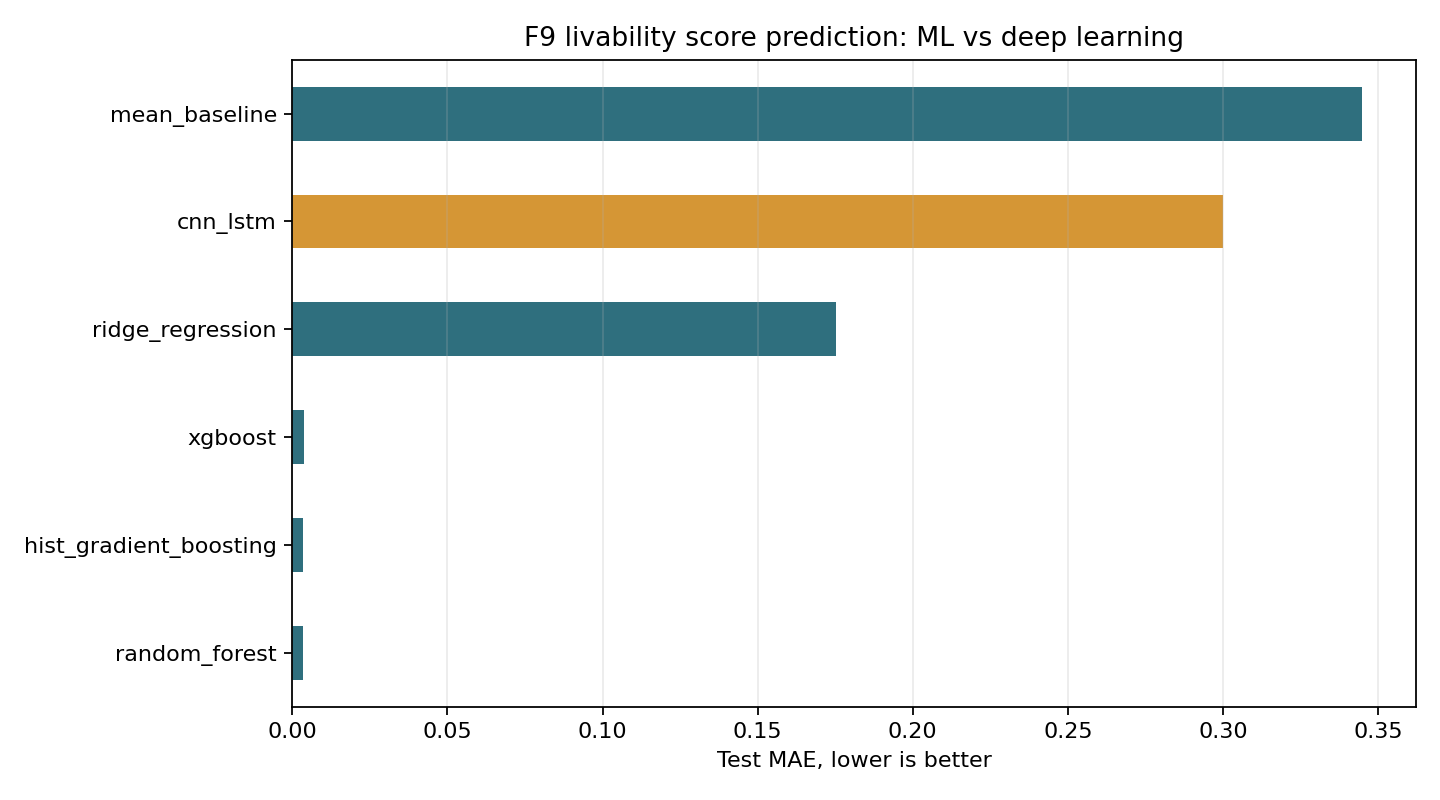
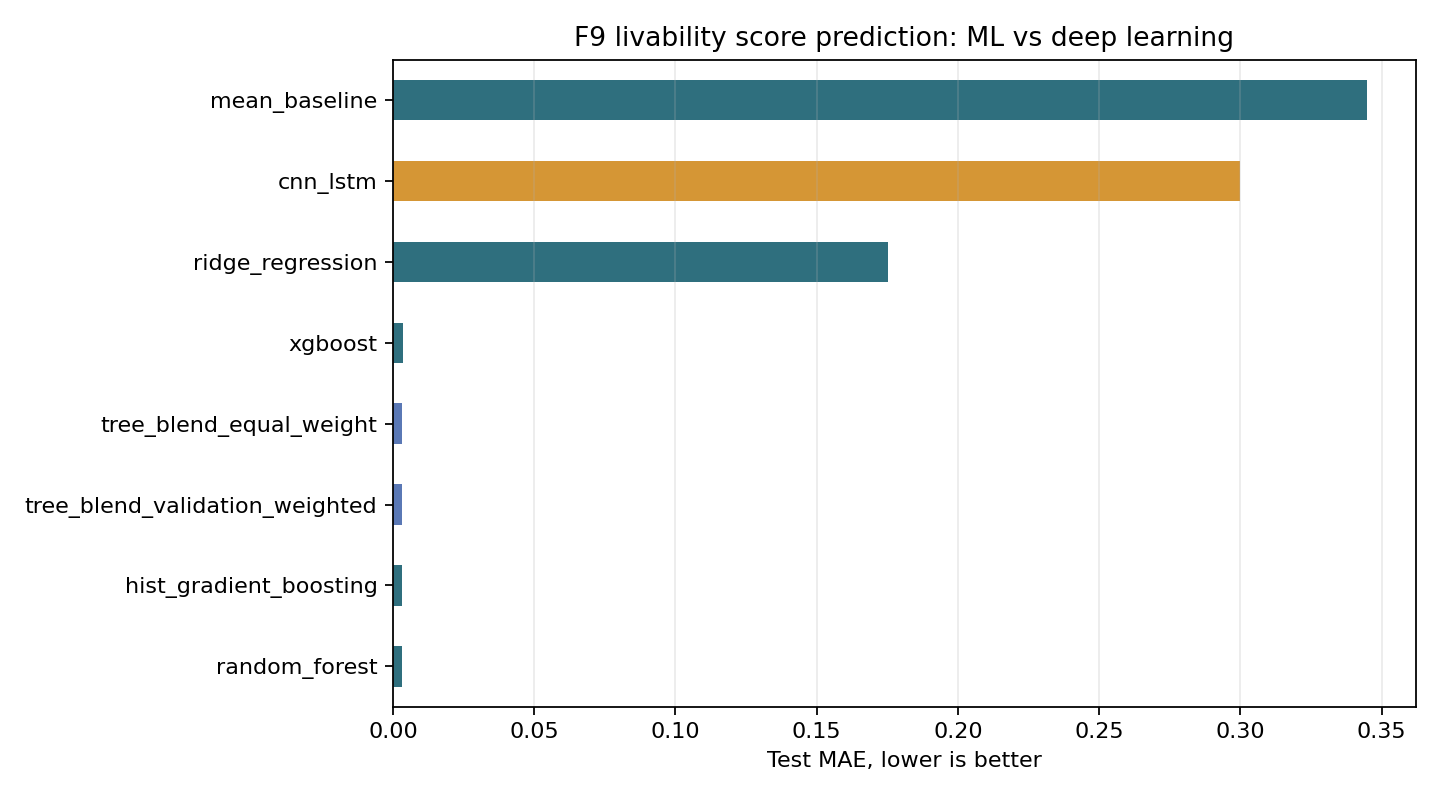
Add F9 ensemble model blends

diff --git a/scripts/f9_uc7_test_livability_models.py b/scripts/f9_uc7_test_livability_models.py
@@ -21,6 +21,7 @@ import matplotlib
 
 matplotlib.use("Agg")
 import matplotlib.pyplot as plt
+import numpy as np
 import pandas as pd
 from sklearn.compose import TransformedTargetRegressor
 from sklearn.dummy import DummyRegressor
@@ -46,6 +47,7 @@ DEFAULT_RESULTS = ROOT / "reports" / "tables" / "f9_uc7_livability_model_results
 DEFAULT_PREDICTIONS = ROOT / "reports" / "tables" / "f9_uc7_livability_test_predictions.csv"
 DEFAULT_FIGURE = ROOT / "reports" / "figures" / "f9_uc7_model_comparison.png"
 DEFAULT_TIMESERIES_FIGURE = ROOT / "reports" / "figures" / "f9_uc7_test_predictions_timeseries.png"
+TREE_ENSEMBLE_MEMBERS = ["random_forest", "hist_gradient_boosting", "xgboost"]
 
 
 def build_xgboost_model(random_state: int) -> Pipeline | None:
@@ -144,10 +146,126 @@ def build_models(random_state: int) -> tuple[dict[str, Pipeline], list[str]]:
     return models, skipped_models
 
 
-def clip_score(predictions):
+def clip_score(predictions) -> pd.Series:
     """Keep livability score predictions inside the known 0..1 target range."""
 
-    return predictions.clip(0.0, 1.0)
+    return pd.Series(predictions).clip(0.0, 1.0)
+
+
+def score_predictions(
+    model_name: str,
+    y_validation: pd.Series,
+    validation_pred: pd.Series,
+    y_test: pd.Series,
+    test_pred: pd.Series,
+    extra: dict | None = None,
+) -> dict:
+    """Create a result row from validation and test predictions."""
+
+    validation_metrics = regression_metrics(y_validation.to_numpy(), validation_pred.to_numpy())
+    test_metrics = regression_metrics(y_test.to_numpy(), test_pred.to_numpy())
+    row = {
+        "model": model_name,
+        "validation_mae": validation_metrics["mae"],
+        "validation_rmse": validation_metrics["rmse"],
+        "validation_r2": validation_metrics["r2"],
+        "test_mae": test_metrics["mae"],
+        "test_rmse": test_metrics["rmse"],
+        "test_r2": test_metrics["r2"],
+    }
+    if extra:
+        row.update(extra)
+    return row
+
+
+def weighted_average_predictions(
+    predictions_by_model: dict[str, dict[str, pd.Series]],
+    model_names: list[str],
+    weights: dict[str, float],
+    prediction_key: str,
+) -> pd.Series:
+    """Blend predictions from several already fitted models."""
+
+    blended = np.zeros(len(predictions_by_model[model_names[0]][prediction_key]), dtype=float)
+    for model_name in model_names:
+        blended += weights[model_name] * predictions_by_model[model_name][prediction_key].to_numpy()
+    return clip_score(blended)
+
+
+def inverse_validation_mae_weights(results: list[dict], model_names: list[str]) -> dict[str, float]:
+    """Weight stronger validation models more heavily."""
+
+    mae_by_model = {
+        result["model"]: result["validation_mae"]
+        for result in results
+        if result["model"] in model_names
+    }
+    inverse_scores = {
+        model_name: 1.0 / max(mae_by_model[model_name], 1e-12)
+        for model_name in model_names
+    }
+    total = sum(inverse_scores.values())
+    return {model_name: inverse_scores[model_name] / total for model_name in model_names}
+
+
+def add_tree_blend_ensembles(
+    results: list[dict],
+    predictions_by_model: dict[str, dict[str, pd.Series]],
+    y_validation: pd.Series,
+    y_test: pd.Series,
+) -> None:
+    """Add prediction-level ensembles made from the strongest tree models."""
+
+    available_members = [
+        model_name
+        for model_name in TREE_ENSEMBLE_MEMBERS
+        if model_name in predictions_by_model
+    ]
+    if len(available_members) < 2:
+        return
+
+    ensemble_specs = {
+        "tree_blend_equal_weight": {
+            model_name: 1.0 / len(available_members)
+            for model_name in available_members
+        },
+        "tree_blend_validation_weighted": inverse_validation_mae_weights(
+            results,
+            available_members,
+        ),
+    }
+
+    for ensemble_name, weights in ensemble_specs.items():
+        validation_pred = weighted_average_predictions(
+            predictions_by_model,
+            available_members,
+            weights,
+            "validation_pred",
+        )
+        test_pred = weighted_average_predictions(
+            predictions_by_model,
+            available_members,
+            weights,
+            "test_pred",
+        )
+        results.append(
+            score_predictions(
+                ensemble_name,
+                y_validation,
+                validation_pred,
+                y_test,
+                test_pred,
+                extra={
+                    "model_family": "prediction_blend_ensemble",
+                    "ensemble_members": available_members,
+                    "ensemble_weights": weights,
+                },
+            )
+        )
+        predictions_by_model[ensemble_name] = {
+            "validation_pred": validation_pred,
+            "test_pred": test_pred,
+        }
 
 
 def save_model_comparison_figure(results: list[dict], path: Path) -> None:
@@ -217,30 +335,23 @@ def main() -> None:
     y_test = test_df[target_column]
 
     results = []
-    fitted_models = {}
+    predictions_by_model = {}
     models, skipped_models = build_models(args.random_state)
     for model_name, model in models.items():
         model.fit(x_train, y_train)
-        validation_pred = clip_score(pd.Series(model.predict(x_validation)))
-        test_pred = clip_score(pd.Series(model.predict(x_test)))
-        validation_metrics = regression_metrics(y_validation.to_numpy(), validation_pred.to_numpy())
-        test_metrics = regression_metrics(y_test.to_numpy(), test_pred.to_numpy())
-        results.append(
-            {
-                "model": model_name,
-                "validation_mae": validation_metrics["mae"],
-                "validation_rmse": validation_metrics["rmse"],
-                "validation_r2": validation_metrics["r2"],
-                "test_mae": test_metrics["mae"],
-                "test_rmse": test_metrics["rmse"],
-                "test_r2": test_metrics["r2"],
-            }
-        )
-        fitted_models[model_name] = (model, test_pred)
+        validation_pred = clip_score(model.predict(x_validation))
+        test_pred = clip_score(model.predict(x_test))
+        results.append(score_predictions(model_name, y_validation, validation_pred, y_test, test_pred))
+        predictions_by_model[model_name] = {
+            "validation_pred": validation_pred,
+            "test_pred": test_pred,
+        }
+
+    add_tree_blend_ensembles(results, predictions_by_model, y_validation, y_test)
 
     best_result = min(results, key=lambda item: item["test_mae"])
     best_model_name = best_result["model"]
-    _, best_test_predictions = fitted_models[best_model_name]
+    best_test_predictions = predictions_by_model[best_model_name]["test_pred"]
 
     prediction_table = pd.DataFrame(
         {

diff --git a/scripts/f9_compare_ml_dl_models.py b/scripts/f9_compare_ml_dl_models.py
@@ -34,6 +34,11 @@ MODEL_DESCRIPTIONS = {
     "random_forest": ("classical_ml", "Tree ensemble"),
     "hist_gradient_boosting": ("classical_ml", "Gradient boosting tree ensemble"),
     "xgboost": ("classical_ml", "XGBoost tree ensemble"),
+    "tree_blend_equal_weight": ("ensemble_blend", "Equal-weight blend of tree models"),
+    "tree_blend_validation_weighted": (
+        "ensemble_blend",
+        "Validation-weighted blend of tree models",
+    ),
     "cnn_lstm": ("deep_learning", "Sequence neural network"),
     "lstm": ("deep_learning", "Sequence neural network"),
 }
@@ -90,10 +95,12 @@ def build_comparison_rows(ml_results: dict, dl_results: dict) -> list[dict]:
 
 def save_comparison_figure(comparison: pd.DataFrame, path: Path) -> None:
     plot_df = comparison.sort_values("test_mae", ascending=True)
-    colors = [
-        "#2f6f7e" if family == "classical_ml" else "#d59635"
-        for family in plot_df["family"].tolist()
-    ]
+    family_colors = {
+        "classical_ml": "#2f6f7e",
+        "ensemble_blend": "#5a78b5",
+        "deep_learning": "#d59635",
+    }
+    colors = [family_colors.get(family, "#777777") for family in plot_df["family"].tolist()]
     ax = plot_df.plot.barh(
         x="model",
         y="test_mae",

diff --git a/docs/f9/F9_ENSEMBLE_MODELING.md b/docs/f9/F9_ENSEMBLE_MODELING.md
@@ -1,0 +1,54 @@
+# F9 Ensemble Modeling
+
+## Objective
+
+Test whether combining strong tabular models improves livability-score prediction.
+
+## Ensemble Methods Tested
+
+Two prediction-level blends were added after training the individual tree models:
+
+| Ensemble | Members | Weighting |
+|---|---|---|
+| Equal-weight tree blend | Random Forest, Histogram Gradient Boosting, XGBoost | Each model gets one third |
+| Validation-weighted tree blend | Random Forest, Histogram Gradient Boosting, XGBoost | Lower validation MAE gets higher weight |
+
+The validation-weighted blend used these weights:
+
+| Member model | Weight |
+|---|---:|
+| Random Forest | 0.3902 |
+| Histogram Gradient Boosting | 0.2998 |
+| XGBoost | 0.3100 |
+
+## Results
+
+| Model | Test MAE | Test RMSE | Test R2 |
+|---|---:|---:|---:|
+| Random Forest | 0.0033 | 0.0218 | 0.9967 |
+| Histogram Gradient Boosting | 0.0033 | 0.0188 | 0.9975 |
+| Validation-weighted tree blend | 0.0034 | 0.0201 | 0.9972 |
+| Equal-weight tree blend | 0.0034 | 0.0200 | 0.9972 |
+| XGBoost | 0.0036 | 0.0210 | 0.9969 |
+
+## Interpretation
+
+The blended ensembles are very strong, but they do not beat the best individual model by MAE.
+
+This is not a failure. It means the strongest tree models are probably learning almost the same signal from temperature, humidity, and humidex. When models make very similar predictions, blending usually improves stability more than accuracy.
+
+## Current Decision
+
+For the current project stage:
+
+- use Random Forest as the best model by MAE,
+- keep Histogram Gradient Boosting as the best model by RMSE and R2,
+- keep XGBoost as an additional strong benchmark,
+- keep blended tree ensembles as a robustness check,
+- do not switch to CNN-LSTM for the current tabular target.
+
+## Next Improvement
+
+The next scientifically useful test is not a larger ensemble. It is an ablation experiment without `humidex_c`.
+
+If performance stays high without humidex, the model may be learning broader environmental patterns. If performance drops strongly, the current target is probably very dependent on humidex.

diff --git a/docs/f9/F9_ML_VS_DL_COMPARISON.md b/docs/f9/F9_ML_VS_DL_COMPARISON.md
@@ -19,6 +19,8 @@ Are classical machine learning models better than deep learning for the current 
 | Random Forest | Classical ML | Nonlinear tree ensemble |
 | Histogram Gradient Boosting | Classical ML | Boosted tree ensemble |
 | XGBoost | Classical ML | Strong boosted tree benchmark |
+| Equal-weight tree blend | Ensemble blend | Average of Random Forest, Histogram Gradient Boosting, and XGBoost |
+| Validation-weighted tree blend | Ensemble blend | Blend weighted by validation MAE |
 | CNN-LSTM | Deep learning | Sequence model experiment |
 
 ## Commands
@@ -55,6 +57,8 @@ reports/figures/f9_ml_vs_dl_comparison.png
 |---|---|---:|---:|---:|
 | Random Forest | Classical ML | 0.0033 | 0.0218 | 0.9967 |
 | Histogram Gradient Boosting | Classical ML | 0.0033 | 0.0188 | 0.9975 |
+| Validation-weighted tree blend | Ensemble blend | 0.0034 | 0.0201 | 0.9972 |
+| Equal-weight tree blend | Ensemble blend | 0.0034 | 0.0200 | 0.9972 |
 | XGBoost | Classical ML | 0.0036 | 0.0210 | 0.9969 |
 | Ridge Regression | Classical ML | 0.1753 | 0.2473 | 0.5748 |
 | CNN-LSTM | Deep Learning | 0.3000 | 0.4174 | -0.1879 |
@@ -69,6 +73,8 @@ The strongest current family is tree-based tabular machine learning:
 - Random Forest,
 - Histogram Gradient Boosting,
 - XGBoost.
+
+The blended ensembles are also strong, but they do not beat the best individual tree models. This suggests that the models are learning almost the same signal.
 
 This is expected because:
 
@@ -98,6 +104,7 @@ The CNN-LSTM uses the same chronological split, but it evaluates fewer test rows
 For the current project phase:
 
 - keep Random Forest, Histogram Gradient Boosting, and XGBoost as the main model candidates,
+- keep blended tree ensembles as a stability check, not as the primary model,
 - keep CNN-LSTM as an advanced experiment,
 - postpone Transformer models,
 - do not build a recommendation system yet,

diff --git a/docs/f9/F9_UC7_model_testing_results.md b/docs/f9/F9_UC7_model_testing_results.md
@@ -55,6 +55,8 @@ Random shuffling is not used.
 |---|---:|---:|---:|
 | Random Forest | 0.0033 | 0.0218 | 0.9967 |
 | Histogram Gradient Boosting | 0.0033 | 0.0188 | 0.9975 |
+| Validation-weighted tree blend | 0.0034 | 0.0201 | 0.9972 |
+| Equal-weight tree blend | 0.0034 | 0.0200 | 0.9972 |
 | XGBoost | 0.0036 | 0.0210 | 0.9969 |
 | Ridge Regression | 0.1753 | 0.2473 | 0.5748 |
 | Mean Baseline | 0.3450 | 0.3887 | -0.0503 |
@@ -65,9 +67,17 @@ The best model by test MAE is:
 random_forest
 ```
 
+The best model by test RMSE is:
+
+```text
+hist_gradient_boosting
+```
+
 ## Interpretation
 
 The tree models perform extremely well. This is promising technically, but it is also a warning sign.
+
+The two blended tree ensembles are strong, but they do not improve the best MAE. In this dataset, the individual tree ensemble models are already very close to the target rule.
 
 The most likely explanation is that the Neusta livability label is highly dependent on temperature, humidity, and humidex. Therefore, the model may be learning a label-generation rule rather than independent human comfort.
 

diff --git a/docs/f9/F9_MANAGER_SUMMARY.md b/docs/f9/F9_MANAGER_SUMMARY.md
@@ -39,6 +39,8 @@ Tree-based tabular models perform best on the current dataset.
 |---|---|---:|---:|---:|
 | Random Forest | Classical ML | 0.0033 | 0.0218 | 0.9967 |
 | Histogram Gradient Boosting | Classical ML | 0.0033 | 0.0188 | 0.9975 |
+| Validation-weighted tree blend | Ensemble blend | 0.0034 | 0.0201 | 0.9972 |
+| Equal-weight tree blend | Ensemble blend | 0.0034 | 0.0200 | 0.9972 |
 | XGBoost | Classical ML | 0.0036 | 0.0210 | 0.9969 |
 | Ridge Regression | Classical ML | 0.1753 | 0.2473 | 0.5748 |
 | CNN-LSTM | Deep Learning | 0.3000 | 0.4174 | -0.1879 |
@@ -61,6 +63,8 @@ This means humidex is useful for future F10 risk detection, but Neusta alone is 
 ## Advanced Model Finding
 
 The CNN-LSTM smoke test did not beat tabular baselines. XGBoost performs similarly to Random Forest and Histogram Gradient Boosting.
+
+The blended tree ensembles are also strong, but they do not beat Random Forest by MAE. This is useful evidence: the individual tree ensembles are already strong enough that a second blending layer gives stability, not a clear accuracy improvement.
 
 Current decision:
 

diff --git a/README.md b/README.md
@@ -191,6 +191,8 @@ F9-UC7 livability prediction:
 |---|---:|---:|---:|
 | Random Forest | 0.0033 | 0.0218 | 0.9967 |
 | Histogram Gradient Boosting | 0.0033 | 0.0188 | 0.9975 |
+| Validation-weighted tree blend | 0.0034 | 0.0201 | 0.9972 |
+| Equal-weight tree blend | 0.0034 | 0.0200 | 0.9972 |
 | XGBoost | 0.0036 | 0.0210 | 0.9969 |
 | Ridge Regression | 0.1753 | 0.2473 | 0.5748 |
 | CNN-LSTM | 0.3000 | 0.4174 | -0.1879 |
@@ -221,6 +223,7 @@ F9-UC7 livability prediction:
 - [F9 Model Testing Results](docs/f9/F9_UC7_model_testing_results.md)
 - [F9 Advanced Models](docs/f9/F9_UC8_advanced_models.md)
 - [F9 ML vs Deep Learning Comparison](docs/f9/F9_ML_VS_DL_COMPARISON.md)
+- [F9 Ensemble Modeling](docs/f9/F9_ENSEMBLE_MODELING.md)
 
 ## Next Recommended Step
 

diff --git a/docs/CHAT_HANDOFF_GUIDE.md b/docs/CHAT_HANDOFF_GUIDE.md
@@ -12,6 +12,7 @@ Paste these files first:
 4. `docs/f8/F8_UC3_UC4_pipeline.md`
 5. `docs/f9/F9_MANAGER_SUMMARY.md`
 6. `docs/f9/F9_ML_VS_DL_COMPARISON.md`
+7. `docs/f9/F9_ENSEMBLE_MODELING.md`
 
 This is usually enough for a normal written documentation report.
 
@@ -89,5 +90,6 @@ For an F9-only report, paste:
 4. `docs/f9/F9_UC7_model_testing_results.md`
 5. `docs/f9/F9_UC8_advanced_models.md`
 6. `docs/f9/F9_MANAGER_SUMMARY.md`
-7. `reports/tables/f9_uc7_livability_model_results.json`
-8. `reports/tables/f9_ml_vs_dl_comparison.json`
+7. `docs/f9/F9_ENSEMBLE_MODELING.md`
+8. `reports/tables/f9_uc7_livability_model_results.json`
+9. `reports/tables/f9_ml_vs_dl_comparison.json`

diff --git a/docs/PROJECT_ROADMAP.md b/docs/PROJECT_ROADMAP.md
@@ -38,6 +38,12 @@ reports/tables/f9_ml_vs_dl_comparison.json
 reports/figures/f9_ml_vs_dl_comparison.png
 ```
 
+Ensemble modeling note:
+
+```text
+docs/f9/F9_ENSEMBLE_MODELING.md
+```
+
 ## Phase F10: Risk Detection
 
 F10 should use explainable rules before ML alerts.
